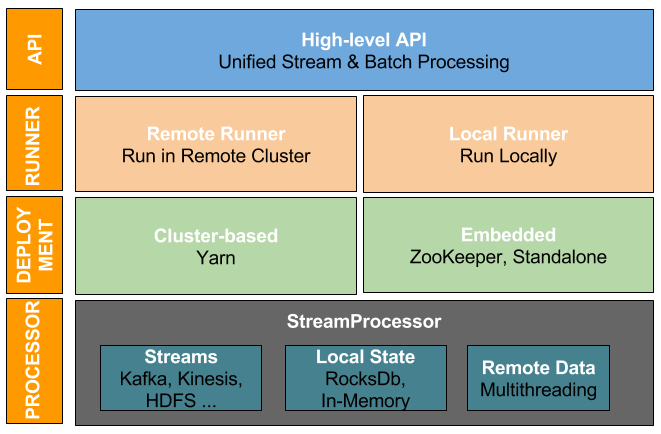
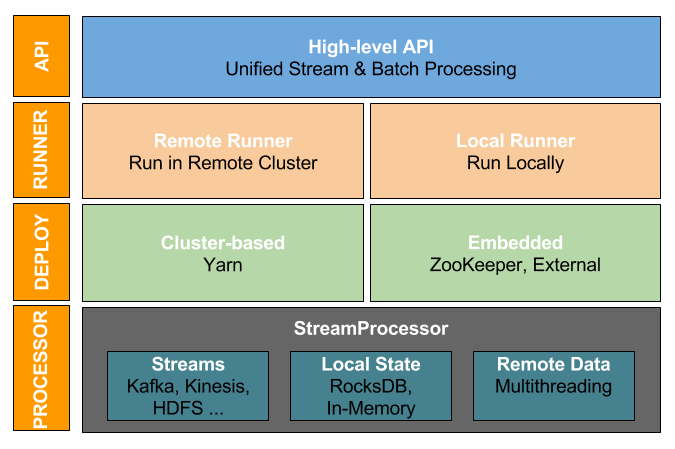
Second round of review feedback

diff --git a/docs/startup/preview/index.md b/docs/startup/preview/index.md
@@ -72,7 +72,7 @@ job.factory.class=org.apache.samza.job.yarn.YarnJobFactory
 
 Then use _run-app.sh_ to run the application in the remote cluster. The script will invoke the RemoteApplicationRunner, which will launch one or more jobs using the factory specified with *job.factory.class*. Follow the [yarn deployment tutorial](/learn/tutorials/{{site.version}}/hello-samza-high-level-yarn.html) to try it out.
 
-**LocalApplicationRunner** - runs the application in the JVM process of the runner. For example, to launch your application on multiple machines using ZooKeeper for coordination, you can run multiple instances of LocalApplicationRunner on various machines. After the applications load they will start cordinatinating their actions through the Zookeeper. Here is an example to run the StreamApplication in your program using the LocalApplicationRunner:
+**LocalApplicationRunner** - runs the application in the JVM process of the runner. For example, to launch your application on multiple machines using ZooKeeper for coordination, you can run multiple instances of LocalApplicationRunner on various machines. After the applications load they will start cordinatinating their actions through ZooKeeper. Here is an example to run the StreamApplication in your program using the LocalApplicationRunner:
 
 {% highlight java %}
 public static void main(String[] args) throws Exception {
@@ -88,7 +88,7 @@ System.out.println("Application completed with status " + localRunner.status(app
 }
 {% endhighlight %}
 
-Follow the [zookeeper deployment tutorial](/learn/tutorials/{{site.version}}/hello-samza-high-level-zk.html) to try it out.
+Follow the [ZooKeeper deployment tutorial](/learn/tutorials/{{site.version}}/hello-samza-high-level-zk.html) to try it out.
 
 ##### Execution Plan
 
@@ -110,7 +110,7 @@ In cluster based execution, Samza will run and manage your application on a mult
 In the embedded execution model, you can use Samza as a lightweight library within your application. You can spin up multiple instances of your application which will distribute and coordinate processing among themselves. This mode provides flexibility for running your applications in arbitrary hosting environments:It also supports pluggable coordination logic with out-of-the-box support for two types of coordination:
 
 * **ZooKeeper based coordination** - Samza can be configured to use ZooKeeper to manage group membership and partition assignment among instances of your application. This allows the you to dynamically scale your application by spinning up more instances or scaling down by shutting some down.
-* **Standalone coordination** - Samza can run your application in a single JVM locally without coordination, or multiple JVMs with a static partition assignment. This is helpful when running in containerized environments like Kubernetes or Amazon ECS.
+* **External coordination** - Samza can run your application in a single JVM locally without coordination, or multiple JVMs with a static partition assignment. This is helpful when running in containerized environments like Kubernetes or Amazon ECS.
 
 For more details on running Samza in embedded mode, take a look at the [flexible deployment model](#flexible-deployment-model) section below.
 
@@ -450,7 +450,7 @@ Let’s walk through the coordination sequence for a ZooKeeper based embedded ap
 * The leader monitors the list of all the active participants.
 * Whenever the list of the participants changes, the leader will generate a new JobModel for the current participants.
 * The new JobModel will be pushed to a common storage. The default implementation uses ZooKeeper for this purpose.
-* Participants are notified that the new JobModel is available. Notification is done through the coordination services, e.g. Zookeeper.
+* Participants are notified that the new JobModel is available. Notification is done through the coordination services, e.g. ZooKeeper.
 * The participants will stop processing, apply the new JobModel, and then resume processing.
 
 The following diagram shows the relationships of the coordinators in the ZooKeeper coordination service implementation.
@@ -461,10 +461,10 @@ Here are a few important details about the coordination service:
 
 * In order to ensure that no two partitions are processed twice by different processors, processing is paused and the processors synchronize on a barrier. Once all the processors are paused, the new JobModel is applied and the processing resumes. The barrier is implemented using the coordination service.
 * During startup and shutdown the processors will be joining/leaving one after another. To avoid redundant JobModel re-calculation, there is a debounce timer which waits for some short period of time (2 seconds by default, configurable in a future release) for more processors to join or leave. Each time a processor joins or leaves, the timer is reset. When the timer expires the JobModel is finally recalculated.
-* If the processors require local store for adjacent or temporary data, we would want to keep its mapping across restarts. For this we uses some extra information about each processor, which uniquely identifies it and its location. If the same processor is restarted on the same location we will try to assign it the same partitions. This locality information should survive the restarts, so it is stored on a common storage (currently using Zookeeper).
+* If the processors require local store for adjacent or temporary data, we would want to keep its mapping across restarts. For this we uses some extra information about each processor, which uniquely identifies it and its location. If the same processor is restarted on the same location we will try to assign it the same partitions. This locality information should survive the restarts, so it is stored on a common storage (currently using ZooKeeper).
 
 ### User guide
-As mentioned before, embedded deployment is designed to help users who want more control over the deployment of their application. So it is user’s responsibility to configure and deploy the processors. In case of ZooKeeper coordination, you also need to configure the URL for an instance of Zookeeper.
+As mentioned before, embedded deployment is designed to help users who want more control over the deployment of their application. So it is user’s responsibility to configure and deploy the processors. In case of ZooKeeper coordination, you also need to configure the URL for an instance of ZooKeeper.
 
 Additionally, each processor requires a unique ID to be used with the coordination service. If location affinity is important, this ID should be unique for each processor, on a specific hostname (assuming local Storage services). To address this requirement, Samza uses a ProcessorIdGenerator implementation class to provide the ID for each processor. If no generator is explicitly configured, the default one will create a UUID for each processor.
 
@@ -473,7 +473,7 @@ To run an embedded Samza processor, you need to configure the coordinator servic
 
 Let’s take a look at how to configure the two coordination service implementations that ship with Samza.
 
-To use Zookeeper-based coordination, the following configs are required:
+To use ZooKeeper-based coordination, the following configs are required:
 
 {% highlight jproperties %}
 job.coordinator.factory=org.apache.samza.zk.ZkJobCoordinatorFactory
@@ -481,10 +481,10 @@ job.coordinator.zk.connect=yourzkconnection
 task.name.grouper.factory=org.apache.samza.container.grouper.task.GroupByContainerIdsFactory
 {% endhighlight %}
 
-To use standalone coordination, the following configs are needed:
+To use external coordination, the following configs are needed:
 
 {% highlight properties %}
-job.coordinator.factory=org.apache.samza.standalone.StandaloneJobCoordinatorFactory
+job.coordinator.factory=org.apache.samza.standalone.PassthroughJobCoordinatorFactory
 task.name.grouper.factory=org.apache.samza.container.grouper.task.GroupByContainerIdsFactory
 {% endhighlight %}
 

diff --git a/docs/learn/tutorials/versioned/hello-samza-high-level-zk.md b/docs/learn/tutorials/versioned/hello-samza-high-level-zk.md
@@ -20,7 +20,7 @@ title: Hello Samza High Level API - Zookeeper Deployment
 -->
 
 The [hello-samza](https://github.com/apache/samza-hello-samza) project is designed to get started with your first Samza job.
-In this tutorial, we will learn how to run a Samza application using zookeeper deployment model.
+In this tutorial, we will learn how to run a Samza application using ZooKeeper deployment model.
 
 ### Get the Code
 
@@ -75,7 +75,7 @@ In order to run the application, we will use the *run-wikipedia-zk-application* 
 The above command executes the helper script which invokes the *WikipediaZkLocalApplication* main class with the appropriate job configurations as command line arguments. The main class is an application wrapper
 that initializes the application and passes it to the local runner for execution. It is blocking and waits for the *LocalApplicationRunner* to finish.
 
-To run your own application using zookeeper deployment model, you would need something similar to *WikipediaZkLocalApplication* class that initializes your application
+To run your own application using ZooKeeper deployment model, you would need something similar to *WikipediaZkLocalApplication* class that initializes your application
 and uses the *LocalApplicationRunner* to run it. To learn more about the internals checkout [deployment-models](/startup/preview/) documentation and the [configurations](/learn/documentation/{{site.version}}/jobs/configuration-table.html) table.
 
 Getting back to our example, the application consumes a feed of real-time edits from Wikipedia, and produces them to a Kafka topic called "wikipedia-stats". Give the job a minute to startup, and then tail the Kafka topic. To do so, run the following command:
@@ -108,4 +108,4 @@ We can use the *grid* script to tear down the local environment ([Kafka](http://
 bin/grid stop all
 {% endhighlight %}
 
-Congratulations! You've now successfully run a Samza application using zookeeper deployment model. Next up, check out the [deployment-models](/startup/preview/) and [high level API](/startup/preview.html) pages.
+Congratulations! You've now successfully run a Samza application using ZooKeeper deployment model. Next up, check out the [deployment-models](/startup/preview/) and [high level API](/startup/preview.html) pages.
